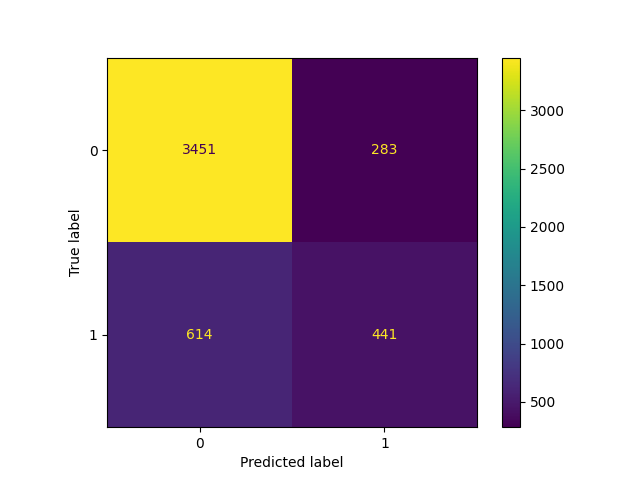
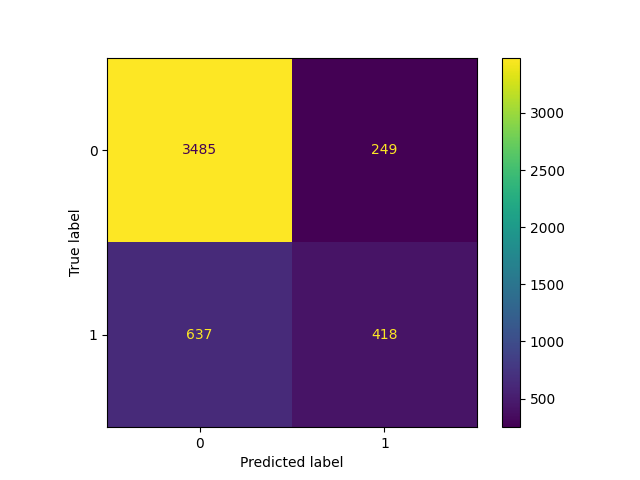
Changes to conv nn tuner part 2.

diff --git a/tuning/convolutional_neural_network_tuner_Optuna.py b/tuning/convolutional_neural_network_tuner_Optuna.py
@@ -197,42 +197,28 @@ def evaluate_best_model() -> None:
     """
     """
     Best params with 30 trials:
-    Layers Count': 6, 
-    layer_0': 152, 'activation_layer_0': 'relu', 'filters_layer_0': 168, 'kernel_size_layer_0': 10, 'pool_size_layer_0': 9, '
-    layer_1': 149, 'activation_layer_1': 'relu', 
-    layer_2': 72, 'activation_layer_2': 'tanh',  
-    layer_3': 121, 'activation_layer_3': 'tanh',
-    layer_4': 164, 'activation_layer_4': 'relu', 
-    'layer_5': 24, 'activation_layer_5': 'tanh',
-    'optimizer': 'sgd', 'learning_rate': 0.009833786177866802, 
-    'epochs': 52, 'batch_size': 128
+    Layers Count': 2, 
+    layer_0': 10, 'activation_layer_0': 'tanh', 'filters_layer_0': 114, 
+    kernel_size_layer_0': 8, 'pool_size_layer_0': 6, '
+    layer_1': 52, 'activation_layer_1': 'tanh'
+    'optimizer': 'rmsprop', 'learning_rate': 0.0030372259351153204, 'epochs': 54, 'batch_size': 55
+    Best is trial 14 with value: 0.9685908675193786.
+    
 
     """
     # load the best dataset:
     x_train, y_train, x_val, y_val = load_best_dataset()
     # create the model with the best parameters:
     model = Sequential()
-    model = create_model_with_layers(model, layers=[Conv1D(filters=168, kernel_size=10,
-                                                           activation='relu', input_shape=(26, 1)),
-                                                    MaxPooling1D(pool_size=9),
-                                                    Flatten(),
-                                                    Dropout(0.1),
-                                                    Dense(152, activation='relu'),
-                                                    Dropout(0.1),
-                                                    Dense(149, activation='relu'),
-                                                    Dropout(0.1),
-                                                    Dense(72, activation='tanh'),
-                                                    Dropout(0.1),
-                                                    Dense(121, activation='tanh'),
-                                                    Dropout(0.1),
-                                                    Dense(164, activation='relu'),
-                                                    Dropout(0.1),
-                                                    Dense(24, activation='tanh'),
-                                                    Dropout(0.1),
-                                                    Dense(1, activation='sigmoid')],
-                                     optimizer=SGD(learning_rate=0.009833786177866802))
+    model = create_model_with_layers(model, layers=[
+                                            Conv1D(filters=114, kernel_size=8, activation='tanh', input_shape=(26, 1)),
+                                            MaxPooling1D(pool_size=6),
+                                            Flatten(),
+                                            Dense(52, activation='tanh'),
+                                            Dense(1, activation='sigmoid')
+                                        ], optimizer=RMSprop(learning_rate=0.0030372259351153204))
     # fit the model:
-    model.fit(x_train, y_train, epochs=52, batch_size=128, verbose=0)
+    model.fit(x_train, y_train, epochs=54, batch_size=55, verbose=0)
     # evaluate the model on the f1 score:
     y_pred = model.predict(x_val)
     y_pred = (y_pred > 0.5)
@@ -283,5 +269,5 @@ def main() -> None:
 
 
 if __name__ == '__main__':
-    main()
-    # evaluate_best_model()
+    # main()
+    evaluate_best_model()

diff --git a/model_explainability/create_final_models.py b/model_explainability/create_final_models.py
@@ -6,16 +6,20 @@ from pathlib import Path
 import matplotlib.pyplot as plt
 import pandas as pd
 import numpy as np
-from keras import Model
+from keras import Model, Sequential
+from keras.layers import Conv1D, MaxPooling1D, Flatten, Dense
+from keras.optimizers import RMSprop
 # Modelling:
 from sklearn.ensemble import GradientBoostingClassifier
 from sklearn.metrics import f1_score, confusion_matrix, ConfusionMatrixDisplay
-from modelling.neural_network import fit_model, create_convolutional_model
+from tuning.convolutional_neural_network_tuner_Optuna import create_model_with_layers
+
 from sklearn.svm import SVC
 from sklearn.metrics import classification_report
 
 # Global variables:
 from config import final_train_csv_path, final_val_csv_path, final_models_path, final_test_csv_path
+from tuning.convolutional_neural_network_tuner_Optuna import create_model_with_layers
 
 final_models_path.mkdir(parents=True, exist_ok=True)
 
@@ -42,12 +46,22 @@ def neural_network_model(x_train: np.ndarray, y_train: np.ndarray) -> Model:
     This function creates a neural network model.
     :return: Model: the model.
     """
-    # create the model:
-    model = create_convolutional_model(x_train.shape[1])  # Todo add all parameters from the tuning results
+    # create the tuned model:
+    model = Sequential()
+    model = create_model_with_layers(model, layers=[
+                                            Conv1D(filters=114, kernel_size=8, activation='tanh', input_shape=(26, 1)),
+                                            MaxPooling1D(pool_size=6),
+                                            Flatten(),
+                                            Dense(52, activation='tanh'),
+                                            Dense(1, activation='sigmoid')
+                                        ], optimizer=RMSprop(learning_rate=0.0030372259351153204))
     # fit the model:
-    model = fit_model(model, x_train, y_train)
-    # save the pickle of the model:
+    model.fit(x_train, y_train, epochs=54, batch_size=55, verbose=0)
+
+    # save the model as a .h5 file and as a pickle file:
+    model.save(Path(final_models_path, "cnn_model.h5"))
     pd.to_pickle(model, Path(final_models_path, "cnn_model.pkl"))
+
     return model
 
 

diff --git a/model_explainability/local_interpretable_model_agnostic_explanations.py b/model_explainability/local_interpretable_model_agnostic_explanations.py
@@ -359,7 +359,7 @@ def lime_and_shap_main() -> None:
         lime_explanation(training, testing, 'default', rf, 'surrogate_random_f', o)
 
     # load the pickled models:
-    cnn_model = pd.read_pickle(Path(final_models_path, 'cnn_model.pkl'))
+    cnn_model = pd.read_pickle(Path(final_models_path, 'cnn_model_untuned.pkl'))
     gb_model = pd.read_pickle(Path(final_models_path, 'gradient_boosting_model.pkl'))
     svc_model = pd.read_pickle(Path(final_models_path, 'support_vector_machine_model.pkl'))
 

diff --git a/model_explainability/global_model_interpration_with_shap.py b/model_explainability/global_model_interpration_with_shap.py
@@ -52,7 +52,7 @@ def load_models() -> (GradientBoostingClassifier, Model, SVC):
     """
     # Load the trained models:
     gb_model = pd.read_pickle(Path(final_models_path, "gradient_boosting_model.pkl"))
-    cnn_model = pd.read_pickle(Path(final_models_path, "cnn_model.pkl"))
+    cnn_model = pd.read_pickle(Path(final_models_path, "cnn_model_untuned.pkl"))
     svm_model = pd.read_pickle(Path(final_models_path, "support_vector_machine_model.pkl"))
     return gb_model, cnn_model, svm_model
 

diff --git a/model_explainability/permutation_importance.py b/model_explainability/permutation_importance.py
@@ -146,7 +146,7 @@ def permutation_importance_main() -> None:
     testing = pd.read_csv(final_test_csv_path)
 
     # load the convoluted neural network model:
-    cnn_model = pd.read_pickle(Path(final_models_path, 'cnn_model.pkl'), )
+    cnn_model = pd.read_pickle(Path(final_models_path, 'cnn_model_untuned.pkl'), )
 
     # load the gradient boosting model:
     gb_model = pd.read_pickle(Path(final_models_path, 'gradient_boosting_model.pkl'))
